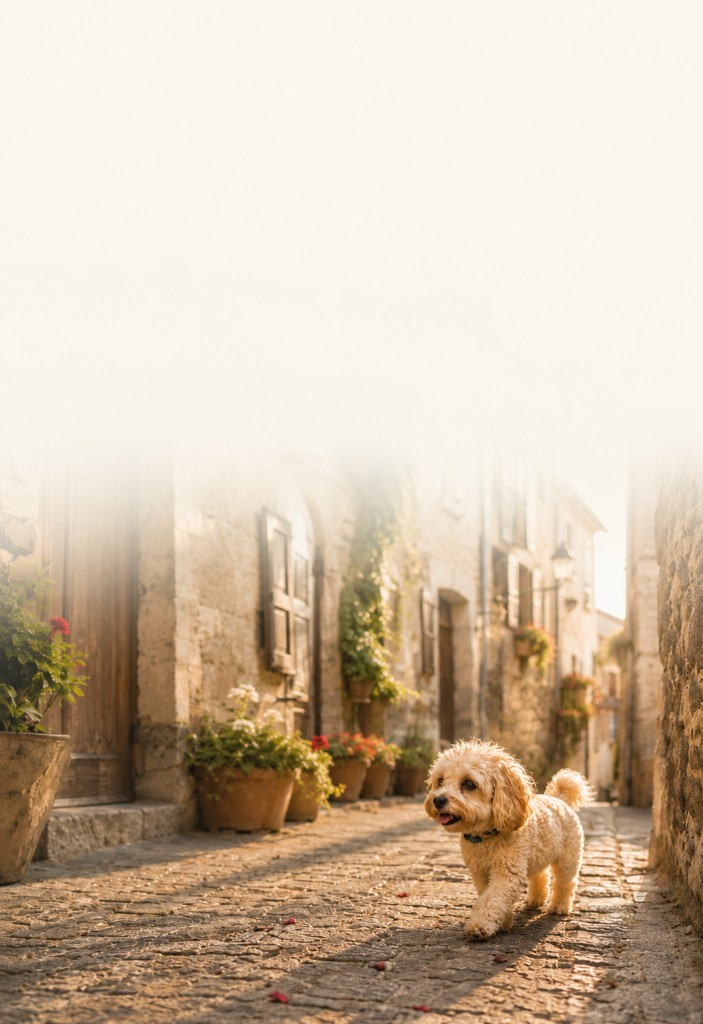
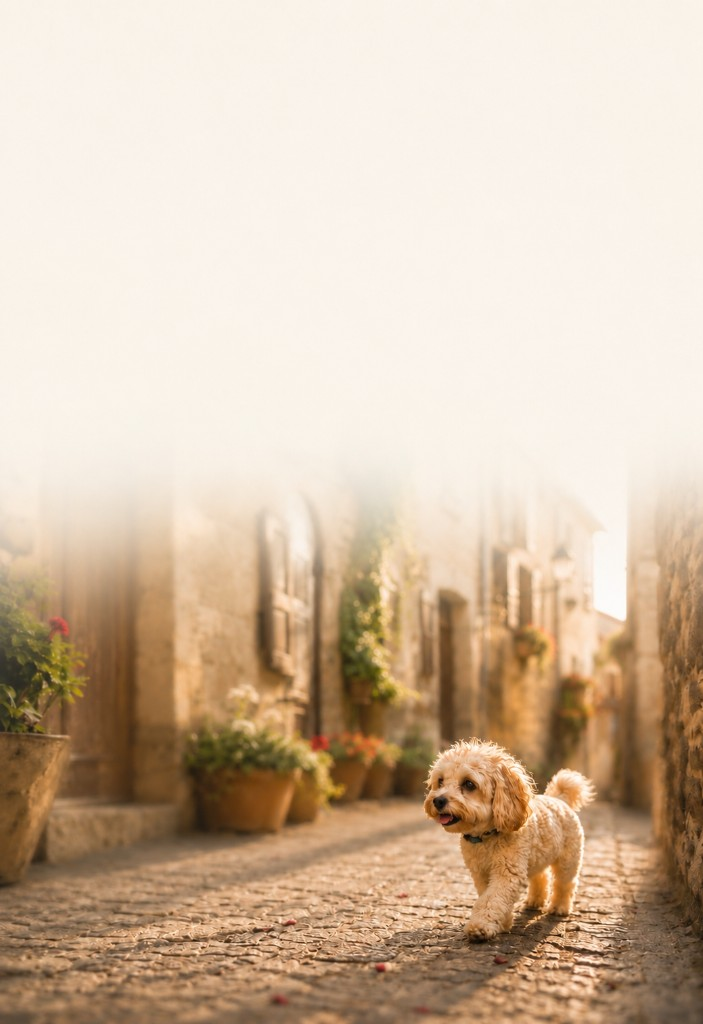
Friday card: new vertical dog art, object-top for mobile text clearance

diff --git a/src/sections/Weekend.jsx b/src/sections/Weekend.jsx
@@ -90,7 +90,7 @@ export function Weekend() {
                 <article
                   className={`relative flex min-h-0 flex-1 flex-col overflow-hidden rounded-[18px] border border-ocean/18 shadow-postcard ${
                     index === 0
-                      ? 'min-h-[22rem] md:min-h-[24rem]'
+                      ? 'min-h-[27rem] sm:min-h-[26rem] md:min-h-[24rem]'
                       : 'bg-[#faf7f2] px-9 py-8 md:px-10 md:py-9'
                   }`}
                 >
@@ -100,7 +100,7 @@ export function Weekend() {
                         src="/images/weekend-friday-full.png"
                         alt=""
                         aria-hidden
-                        className="pointer-events-none absolute inset-0 h-full w-full object-cover object-center select-none"
+                        className="pointer-events-none absolute inset-0 h-full w-full select-none object-cover object-top"
                         style={{
                           filter:
                             'saturate(0.97) contrast(1.02) brightness(1.02)',
@@ -108,7 +108,7 @@ export function Weekend() {
                       />
                       <div
                         aria-hidden
-                        className="pointer-events-none absolute inset-0 bg-gradient-to-b from-[rgba(253,252,250,0.94)] from-0% via-[rgba(253,252,250,0.55)] via-[38%] to-transparent to-[58%]"
+                        className="pointer-events-none absolute inset-0 bg-gradient-to-b from-[rgba(253,252,250,0.35)] from-0% via-transparent via-[48%] to-transparent md:from-[rgba(253,252,250,0.28)] md:via-[42%]"
                       />
                     </>
                   )}